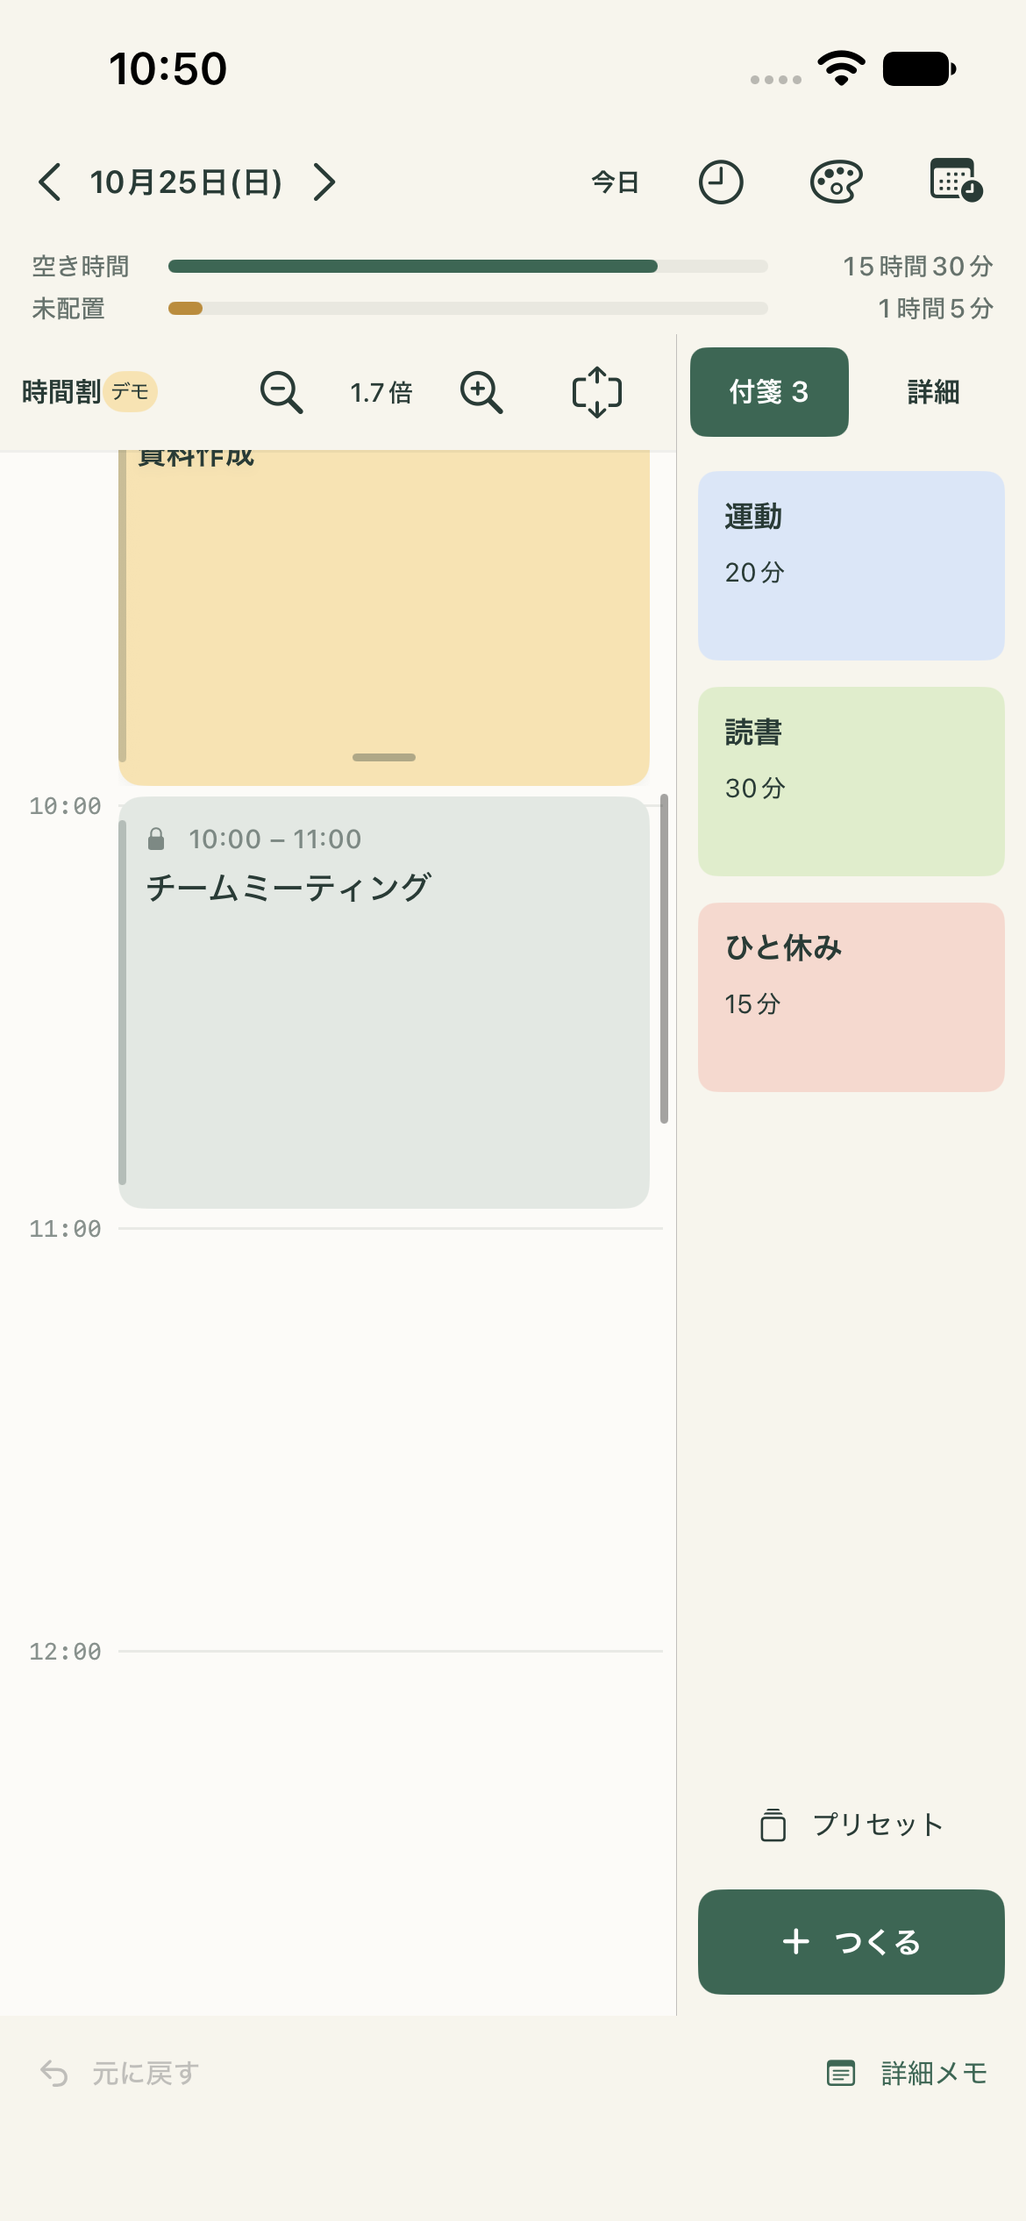
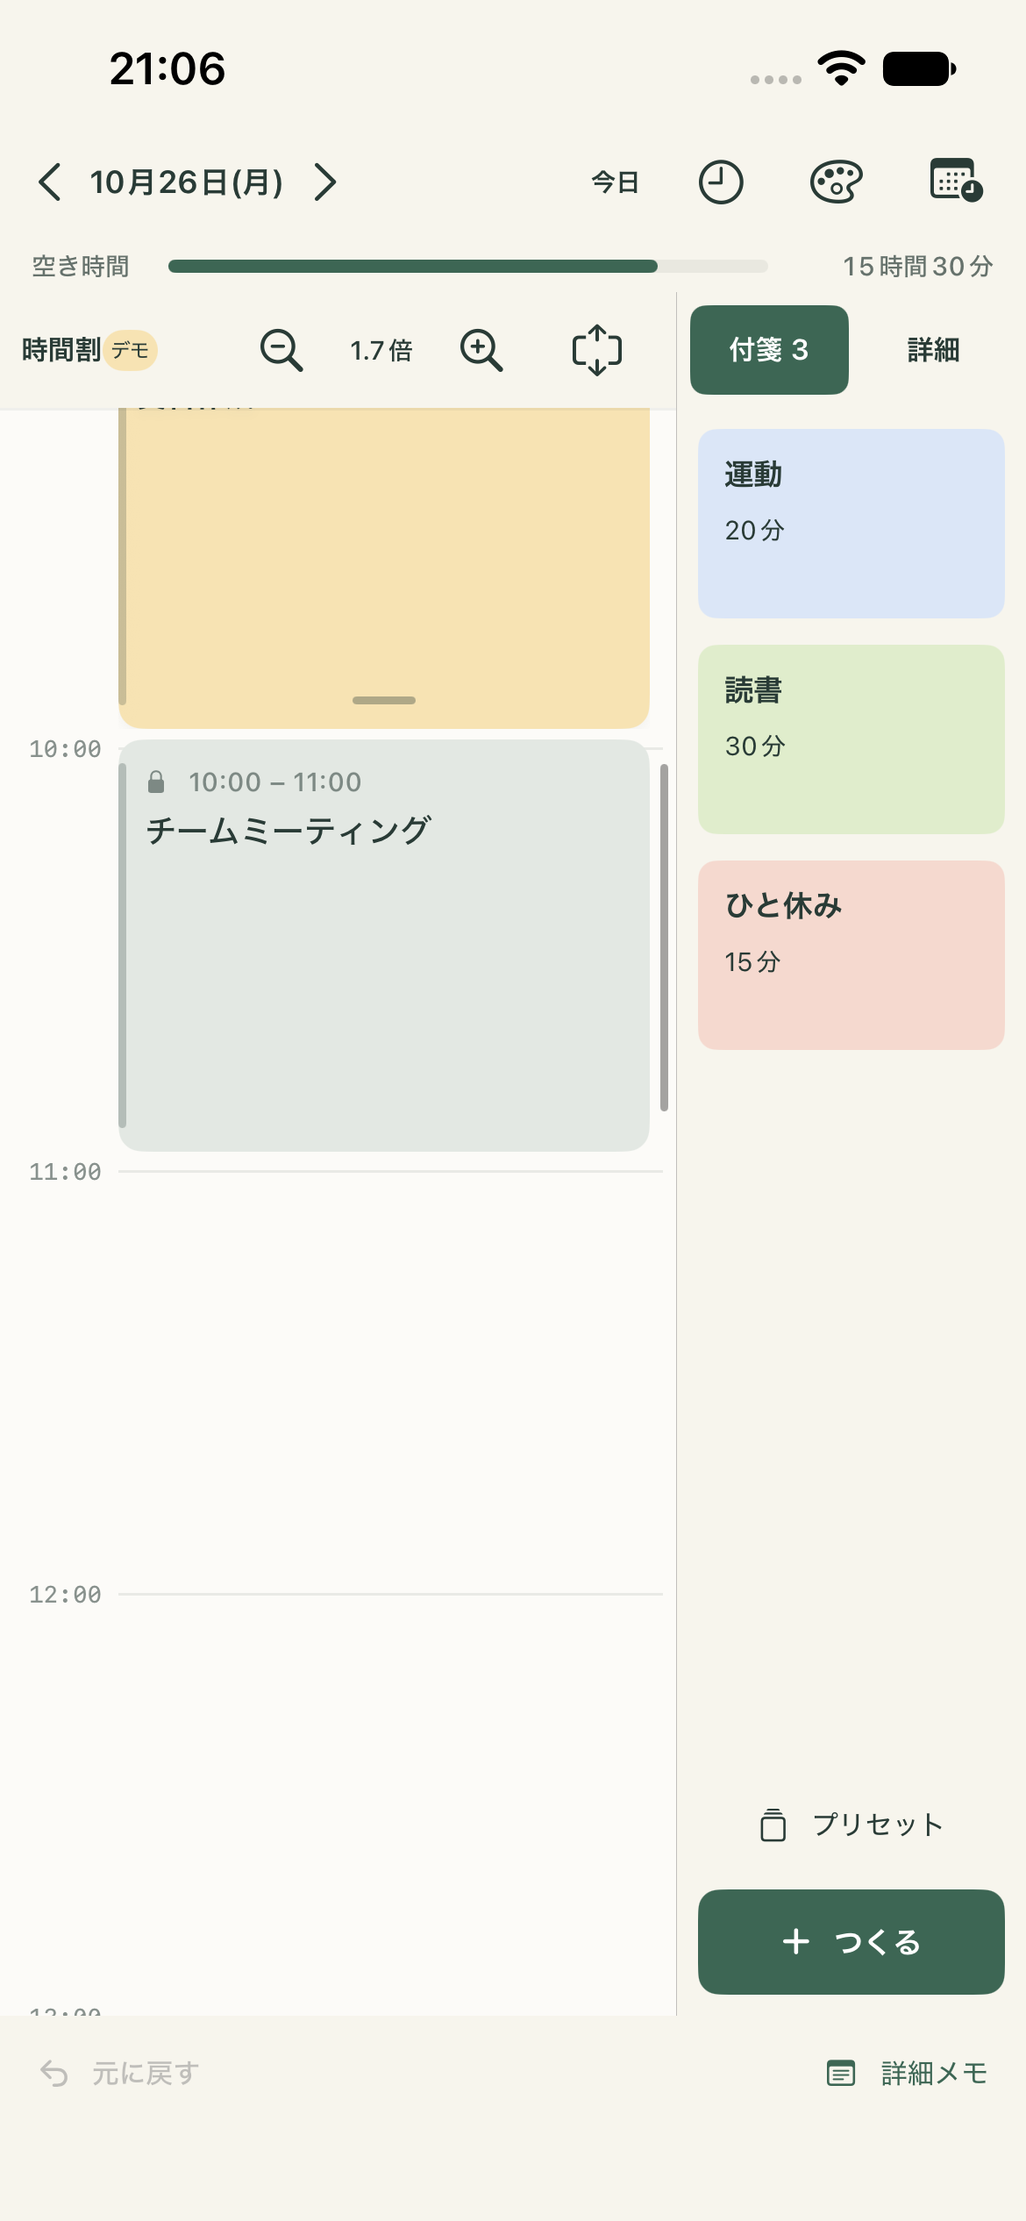
Allow timeline scrolling from event cards

diff --git a/docs/screenshots/index.html b/docs/screenshots/index.html
@@ -1,1 +1,1 @@
-<!doctype html><html lang="ja"><meta charset="utf-8"><meta name="viewport" content="width=device-width,initial-scale=1"><title>予定館・実機能確認</title><style>body{background:#f7f5ed;color:#293b35;font:15px system-ui;margin:32px}h1{font-size:24px}.grid{display:grid;grid-template-columns:repeat(auto-fit,minmax(240px,1fr));gap:28px}figure{margin:0}img{width:100%;max-width:390px;border-radius:24px;box-shadow:0 8px 32px #293b3520}figcaption{margin:12px 0 20px}p{line-height:1.8}</style><h1>予定館 / シミュレーター動作確認</h1><p>iPhone 17e・iOS 27。XCTestで実際に操作した画面です。デモ表記のある画面はサンプル予定、カレンダー画面はシミュレーターのEventKitに登録した検証用予定を使用しています。</p><div class="grid"><figure><a href="01-day-planner.png"><img src="01-day-planner.png" alt="01-day-planner"></a><figcaption>01-day-planner</figcaption></figure><figure><a href="02-presets.png"><img src="02-presets.png" alt="02-presets"></a><figcaption>02-presets</figcaption></figure><figure><a href="03-sticky-editor.png"><img src="03-sticky-editor.png" alt="03-sticky-editor"></a><figcaption>03-sticky-editor</figcaption></figure><figure><a href="04-overlap-after-drag.png"><img src="04-overlap-after-drag.png" alt="04-overlap-after-drag"></a><figcaption>04-overlap-after-drag</figcaption></figure><figure><a href="05-resize-overlap.png"><img src="05-resize-overlap.png" alt="05-resize-overlap"></a><figcaption>05-resize-overlap</figcaption></figure><figure><a href="06-day-overview.png"><img src="06-day-overview.png" alt="06-day-overview"></a><figcaption>06-day-overview</figcaption></figure><figure><a href="07-calendar-settings.png"><img src="07-calendar-settings.png" alt="07-calendar-settings"></a><figcaption>07-calendar-settings</figcaption></figure><figure><a href="08-real-calendar-events.png"><img src="08-real-calendar-events.png" alt="08-real-calendar-events"></a><figcaption>08-real-calendar-events</figcaption></figure><figure><a href="09-start-time-drag.png"><img src="09-start-time-drag.png" alt="09-start-time-drag"></a><figcaption>09-start-time-drag</figcaption></figure><figure><a href="10-swipe-next-day.png"><img src="10-swipe-next-day.png" alt="10-swipe-next-day"></a><figcaption>10-swipe-next-day</figcaption></figure><figure><a href="11-color-settings.png"><img src="11-color-settings.png" alt="11-color-settings"></a><figcaption>11-color-settings</figcaption></figure><figure><a href="12-named-color-picker.png"><img src="12-named-color-picker.png" alt="12-named-color-picker"></a><figcaption>12-named-color-picker</figcaption></figure><figure><a href="13-custom-colors.png"><img src="13-custom-colors.png" alt="13-custom-colors"></a><figcaption>13-custom-colors</figcaption></figure><figure><a href="14-expanded-color-picker.png"><img src="14-expanded-color-picker.png" alt="14-expanded-color-picker"></a><figcaption>14-expanded-color-picker</figcaption></figure><figure><a href="15-five-am-plan.png"><img src="15-five-am-plan.png" alt="15-five-am-plan"></a><figcaption>15-five-am-plan</figcaption></figure><figure><a href="16-planning-hours-settings.png"><img src="16-planning-hours-settings.png" alt="16-planning-hours-settings"></a><figcaption>16-planning-hours-settings</figcaption></figure><figure><a href="17-custom-hours-and-outside-sticky.png"><img src="17-custom-hours-and-outside-sticky.png" alt="17-custom-hours-and-outside-sticky"></a><figcaption>17-custom-hours-and-outside-sticky</figcaption></figure><figure><a href="18-two-zone-planner.png"><img src="18-two-zone-planner.png" alt="18-two-zone-planner"></a><figcaption>18-two-zone-planner</figcaption></figure><figure><a href="19-detail-memo.png"><img src="19-detail-memo.png" alt="19-detail-memo"></a><figcaption>19-detail-memo</figcaption></figure><figure><a href="20-three-zone-planner.png"><img src="20-three-zone-planner.png" alt="20-three-zone-planner"></a><figcaption>20-three-zone-planner</figcaption></figure><figure><a href="21-switch-to-schedule-details.png"><img src="21-switch-to-schedule-details.png" alt="21-switch-to-schedule-details"></a><figcaption>21-switch-to-schedule-details</figcaption></figure><figure><a href="22-five-minute-zoom.png"><img src="22-five-minute-zoom.png" alt="22-five-minute-zoom"></a><figcaption>22-five-minute-zoom</figcaption></figure><figure><a href="23-five-minute-standard.png"><img src="23-five-minute-standard.png" alt="23-five-minute-standard"></a><figcaption>23-five-minute-standard</figcaption></figure><figure><a href="24-pinch-timeline.png"><img src="24-pinch-timeline.png" alt="24-pinch-timeline"></a><figcaption>24-pinch-timeline</figcaption></figure></div></html>
+<!doctype html><html lang="ja"><meta charset="utf-8"><meta name="viewport" content="width=device-width,initial-scale=1"><title>予定館・実機能確認</title><style>body{background:#f7f5ed;color:#293b35;font:15px system-ui;margin:32px}h1{font-size:24px}.grid{display:grid;grid-template-columns:repeat(auto-fit,minmax(240px,1fr));gap:28px}figure{margin:0}img{width:100%;max-width:390px;border-radius:24px;box-shadow:0 8px 32px #293b3520}figcaption{margin:12px 0 20px}p{line-height:1.8}</style><h1>予定館 / シミュレーター動作確認</h1><p>iPhone 17e・iOS 27。XCTestで実際に操作した画面です。デモ表記のある画面はサンプル予定、カレンダー画面はシミュレーターのEventKitに登録した検証用予定を使用しています。</p><div class="grid"><figure><a href="01-day-planner.png"><img src="01-day-planner.png" alt="01-day-planner"></a><figcaption>01-day-planner</figcaption></figure><figure><a href="02-presets.png"><img src="02-presets.png" alt="02-presets"></a><figcaption>02-presets</figcaption></figure><figure><a href="03-sticky-editor.png"><img src="03-sticky-editor.png" alt="03-sticky-editor"></a><figcaption>03-sticky-editor</figcaption></figure><figure><a href="04-overlap-after-drag.png"><img src="04-overlap-after-drag.png" alt="04-overlap-after-drag"></a><figcaption>04-overlap-after-drag</figcaption></figure><figure><a href="05-resize-overlap.png"><img src="05-resize-overlap.png" alt="05-resize-overlap"></a><figcaption>05-resize-overlap</figcaption></figure><figure><a href="06-day-overview.png"><img src="06-day-overview.png" alt="06-day-overview"></a><figcaption>06-day-overview</figcaption></figure><figure><a href="07-calendar-settings.png"><img src="07-calendar-settings.png" alt="07-calendar-settings"></a><figcaption>07-calendar-settings</figcaption></figure><figure><a href="08-real-calendar-events.png"><img src="08-real-calendar-events.png" alt="08-real-calendar-events"></a><figcaption>08-real-calendar-events</figcaption></figure><figure><a href="09-start-time-drag.png"><img src="09-start-time-drag.png" alt="09-start-time-drag"></a><figcaption>09-start-time-drag</figcaption></figure><figure><a href="10-swipe-next-day.png"><img src="10-swipe-next-day.png" alt="10-swipe-next-day"></a><figcaption>10-swipe-next-day</figcaption></figure><figure><a href="11-color-settings.png"><img src="11-color-settings.png" alt="11-color-settings"></a><figcaption>11-color-settings</figcaption></figure><figure><a href="12-named-color-picker.png"><img src="12-named-color-picker.png" alt="12-named-color-picker"></a><figcaption>12-named-color-picker</figcaption></figure><figure><a href="13-custom-colors.png"><img src="13-custom-colors.png" alt="13-custom-colors"></a><figcaption>13-custom-colors</figcaption></figure><figure><a href="14-expanded-color-picker.png"><img src="14-expanded-color-picker.png" alt="14-expanded-color-picker"></a><figcaption>14-expanded-color-picker</figcaption></figure><figure><a href="15-five-am-plan.png"><img src="15-five-am-plan.png" alt="15-five-am-plan"></a><figcaption>15-five-am-plan</figcaption></figure><figure><a href="16-planning-hours-settings.png"><img src="16-planning-hours-settings.png" alt="16-planning-hours-settings"></a><figcaption>16-planning-hours-settings</figcaption></figure><figure><a href="17-custom-hours-and-outside-sticky.png"><img src="17-custom-hours-and-outside-sticky.png" alt="17-custom-hours-and-outside-sticky"></a><figcaption>17-custom-hours-and-outside-sticky</figcaption></figure><figure><a href="18-two-zone-planner.png"><img src="18-two-zone-planner.png" alt="18-two-zone-planner"></a><figcaption>18-two-zone-planner</figcaption></figure><figure><a href="19-detail-memo.png"><img src="19-detail-memo.png" alt="19-detail-memo"></a><figcaption>19-detail-memo</figcaption></figure><figure><a href="20-three-zone-planner.png"><img src="20-three-zone-planner.png" alt="20-three-zone-planner"></a><figcaption>20-three-zone-planner</figcaption></figure><figure><a href="21-switch-to-schedule-details.png"><img src="21-switch-to-schedule-details.png" alt="21-switch-to-schedule-details"></a><figcaption>21-switch-to-schedule-details</figcaption></figure><figure><a href="22-five-minute-zoom.png"><img src="22-five-minute-zoom.png" alt="22-five-minute-zoom"></a><figcaption>22-five-minute-zoom</figcaption></figure><figure><a href="23-five-minute-standard.png"><img src="23-five-minute-standard.png" alt="23-five-minute-standard"></a><figcaption>23-five-minute-standard</figcaption></figure><figure><a href="24-pinch-timeline.png"><img src="24-pinch-timeline.png" alt="24-pinch-timeline"></a><figcaption>24-pinch-timeline</figcaption></figure><figure><a href="25-scroll-on-event.png"><img src="25-scroll-on-event.png" alt="25-scroll-on-event"></a><figcaption>25-scroll-on-event</figcaption></figure></div></html>

diff --git a/ios/Yoteikan/PlannerView.swift b/ios/Yoteikan/PlannerView.swift
@@ -58,6 +58,43 @@ private struct TimelinePinch: UIViewRepresentable {
     }
 }
 
+private struct StickyTouch: UIViewRepresentable {
+    var tapped: () -> Void
+    var changed: (CGFloat, CGPoint) -> Void
+    var ended: (CGFloat, CGPoint) -> Void
+    var cancelled: () -> Void
+    func makeCoordinator() -> Coordinator { Coordinator() }
+    func makeUIView(context: Context) -> UIView {
+        let view = UIView()
+        let press = UILongPressGestureRecognizer(target: context.coordinator, action: #selector(Coordinator.press(_:)))
+        press.minimumPressDuration = 0.3
+        press.allowableMovement = 10
+        press.numberOfTouchesRequired = 1
+        let tap = UITapGestureRecognizer(target: context.coordinator, action: #selector(Coordinator.tap))
+        tap.require(toFail: press)
+        view.addGestureRecognizer(press)
+        view.addGestureRecognizer(tap)
+        view.isAccessibilityElement = false
+        return view
+    }
+    func updateUIView(_ view: UIView, context: Context) { context.coordinator.actions = self }
+    final class Coordinator: NSObject {
+        var actions: StickyTouch?
+        var startY: CGFloat = 0
+        @objc func tap() { actions?.tapped() }
+        @objc func press(_ gesture: UILongPressGestureRecognizer) {
+            let point = gesture.location(in: nil)
+            switch gesture.state {
+            case .began: startY = point.y; actions?.changed(0, point)
+            case .changed: actions?.changed(point.y - startY, point)
+            case .ended: actions?.ended(point.y - startY, point)
+            case .cancelled, .failed: actions?.cancelled()
+            default: break
+            }
+        }
+    }
+}
+
 private struct HourPositions: PreferenceKey {
     static var defaultValue: [Int: CGFloat] = [:]
     static func reduce(value: inout [Int: CGFloat], nextValue: () -> [Int: CGFloat]) { value.merge(nextValue(), uniquingKeysWith: { _, new in new }) }
@@ -91,8 +128,6 @@ struct PlannerView: View {
     @State private var stretching: UUID?
     @State private var stretch: CGFloat = 0
     @State private var viewportHeight: CGFloat = 350
-    @State private var touchStart = CGPoint.zero
-    @State private var touchTask: UUID?
     @State private var inboxFrame = CGRect.zero
     @State private var returningToInbox = false
     @State private var showDetails = false
@@ -361,6 +396,12 @@ struct PlannerView: View {
         let height = max(0, cardHeight(visibleEnd - visibleStart) + (stretching == task.id ? stretch : 0))
         return taskCard(task, compact: overview || slotCount > 1, height: height)
             .frame(width: width - 3, height: height)
+            .overlay(StickyTouch(
+                tapped: { if selected == task.id { editing = task } else { selected = task.id } },
+                changed: { delta, point in updateMove(task, delta: delta, location: point) },
+                ended: { delta, point in finishMove(task, delta: delta, location: point) },
+                cancelled: { moving = nil; shift = 0; returningToInbox = false }
+            ))
             .overlay { if collision { RoundedRectangle(cornerRadius: 9).stroke(.orange, lineWidth: 1.5).allowsHitTesting(false) } }
             .overlay(alignment: .bottom) { if !overview && (height >= 54 || stretching == task.id) { resizeHandle(task) } }
             .contentShape(Rectangle())
@@ -380,9 +421,6 @@ struct PlannerView: View {
             }
             .offset(x: 40 + width * CGFloat(slot.column), y: CGFloat((moving == task.id ? task.start! : visibleStart) - plans.hours.start) * scale + 2 + (moving == task.id ? shift : 0))
             .zIndex(moving == task.id || stretching == task.id ? 5 : selected == task.id ? 3 : 1)
-            .onTapGesture { if selected == task.id { editing = task } else { selected = task.id } }
-            .gesture(moveGesture(task))
-            .simultaneousGesture(DragGesture(minimumDistance: 0, coordinateSpace: .global).onChanged { value in touchStart = value.startLocation; touchTask = task.id })
             .accessibilityElement(children: .contain)
             .accessibilityIdentifier("task-\(task.title)")
             .accessibilityValue("\(clockText(task.start!))|\(task.minutes)")
@@ -424,7 +462,8 @@ struct PlannerView: View {
                         Task { @MainActor in await Task.yield(); pinchBase = nil }
                     }))
                 }.frame(height: CGFloat(plans.hours.end - plans.hours.start) * scale + 18).padding(.top, 12).padding(.horizontal, 5)
-            }.coordinateSpace(name: "timelineViewport").accessibilityIdentifier("timeline")
+            }.scrollDisabled(moving != nil || stretching != nil)
+                .coordinateSpace(name: "timelineViewport").accessibilityIdentifier("timeline")
                 .onPreferenceChange(HourPositions.self) { positions in
                     visibleHour = positions.filter { $0.value <= viewportTop + 16 }.max(by: { $0.value < $1.value })?.key ?? initialHour
                     if let hour = visibleHour, let y = positions[hour] {
@@ -544,21 +583,6 @@ struct PlannerView: View {
         guard pinchBase == nil, moving == task.id, let start = task.start else { return }
         if inboxFrame.contains(location) { plans.put(task.id, at: nil); selected = nil; sideShowsDetails = false }
         else { plans.move(task.id, start: start + PlannerMath.snap(Double(delta / scale))) }
-    }
-    private func moveGesture(_ task: Sticky) -> some Gesture {
-        LongPressGesture(minimumDuration: 0.25).sequenced(before: DragGesture(minimumDistance: 0, coordinateSpace: .global))
-            .onChanged { value in
-                if case .second(true, let drag?) = value {
-                    let delta = drag.location.y - (touchTask == task.id ? touchStart.y : drag.startLocation.y)
-                    updateMove(task, delta: delta, location: drag.location)
-                }
-            }.onEnded { value in
-                if case .second(true, let drag?) = value {
-                    let delta = drag.location.y - (touchTask == task.id ? touchStart.y : drag.startLocation.y)
-                    finishMove(task, delta: delta, location: drag.location)
-                }
-                moving = nil; shift = 0; returningToInbox = false
-            }
     }
     private var inboxView: some View {
         VStack(spacing: 0) {

diff --git a/ios/YoteikanUITests/YoteikanUITests.swift b/ios/YoteikanUITests/YoteikanUITests.swift
@@ -575,6 +575,31 @@ final class YoteikanUITests: XCTestCase {
         XCTAssertLessThanOrEqual(schedule.frame.maxX, memo.frame.minX + 1)
         XCUIDevice.shared.orientation = .portrait
     }
+    func test23ScrollFromStickyAndCalendarEventPreservesPlans() {
+        launch()
+        let task = app.otherElements["task-資料作成"]
+        let original = task.value as? String
+        let date = app.staticTexts["selectedDate"].label
+        let marker = app.staticTexts["10:00"]
+        let before = marker.frame.minY
+        let point = task.coordinate(withNormalizedOffset: CGVector(dx: 0.35, dy: 0.4))
+        point.press(forDuration: 0.01, thenDragTo: point.withOffset(CGVector(dx: 0, dy: -140)))
+        XCTAssertLessThan(marker.frame.minY, before - 50)
+        XCTAssertEqual(task.value as? String, original)
+        XCTAssertEqual(app.staticTexts["selectedDate"].label, date)
+        let viewport = app.scrollViews["timeline"].frame.insetBy(dx: 8, dy: 12)
+        let fixed = ["fixed-チームミーティング", "fixed-打ち合わせ"].map { app.otherElements[$0] }
+            .first { $0.isHittable && $0.frame.intersection(viewport).height > 30 }
+        guard let fixed else { return XCTFail("No calendar event is visible after scrolling") }
+        let movedY = marker.frame.minY
+        let hit = fixed.frame.intersection(viewport)
+        let from = app.coordinate(withNormalizedOffset: .zero).withOffset(CGVector(dx: hit.midX, dy: hit.midY))
+        from.press(forDuration: 0.01, thenDragTo: from.withOffset(CGVector(dx: 0, dy: 110)))
+        XCTAssertGreaterThan(marker.frame.minY, movedY + 40)
+        XCTAssertEqual(task.value as? String, original)
+        XCTAssertEqual(app.staticTexts["selectedDate"].label, date)
+        shot("25-scroll-on-event")
+    }
     func test22PinchTimelinePreservesTimeAndTasks() {
         launch()
         let timeline = app.scrollViews["timeline"]

diff --git a/docs/issues-18-20.md b/docs/issues-18-20.md
@@ -5,3 +5,9 @@
 上部の未配置時間の数値と横棒を削除し、空き時間だけを表示します。未配置の付箋一覧と枚数は引き続き右側で確認できます。不要な1行をなくしてタイムラインを広げます。
 
 2026年10月26日、iPhone 17e / iOS 27シミュレーターのUIテストで、未配置時間の非表示・空き時間・プリセット追加・付箋一覧を確認しました（Issue18.xcresult、1件成功）。実機は未確認です。
+
+## #19：予定の上から時間割をスクロール
+
+付箋の本文をすぐスワイプすると時間割をスクロールし、0.3秒の長押しが成立した場合だけ付箋を移動します。移動・伸縮中は時間割のスクロールを止め、タップでの選択・編集、右上の移動つまみ、下端の伸縮つまみ、ピンチによる拡縮を保持します。固定予定の上からもスクロールできます。
+
+長押し移動・伸縮（Issue19Touch.xcresultの1件）、ピンチ・付箋と固定予定の上からのスクロール（Issue19Final.xcresultの2件）が成功しました。スクロールしても予定の時刻・所要時間・選択日が変わらないことを確認しています。[操作後の画面](screenshots/25-scroll-on-event.png)。

diff --git a/README.md b/README.md
@@ -12,6 +12,7 @@
 - 日付と設定を1行にまとめ、時間割の表示領域を確保。
 - 色と名前を自由に追加・編集・削除。付箋とプリセットで共通利用。
 - 長押しドラッグで配置し、選択後は右上の↕をドラッグして開始時刻を変更。下端のつまみで延長・短縮。
+- 予定の上からすぐスワイプすると時間割をスクロール。長押しした場合だけ付箋を移動。
 - 変更するのは触っている1枚だけ。ほかの付箋や会議は自動で動かない。
 - 予定の重なりを許可し、並列表示と枠線で知らせる。
 - 未配置への戻し、直前の変更を元に戻す、端末内への保存。
